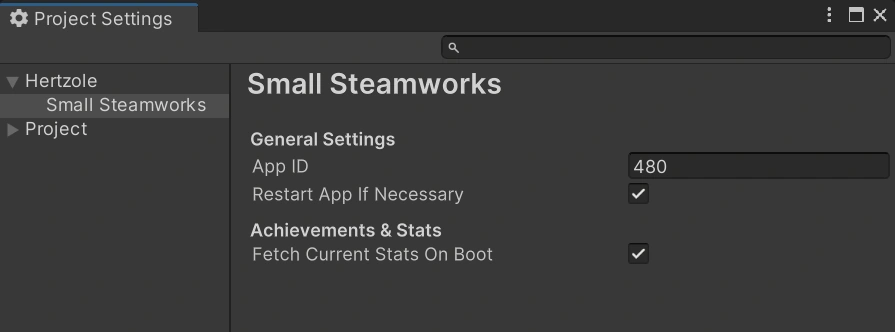
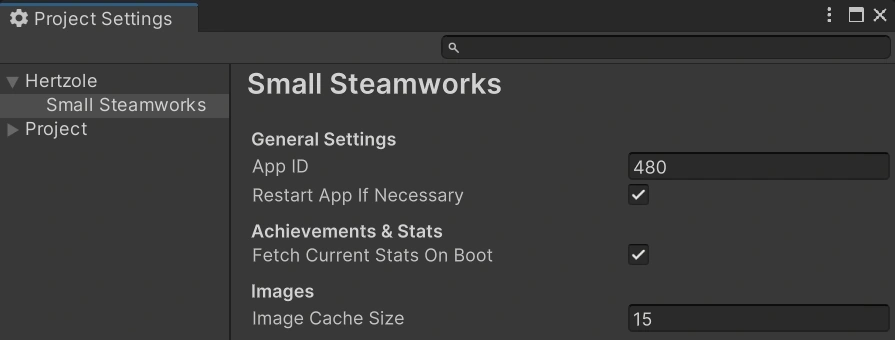
add: docs for image cache size

diff --git a/Docs/docs/settings.md b/Docs/docs/settings.md
@@ -19,3 +19,9 @@ If this is enabled, the game will restart if it wasn't started through Steam. Th
 
 ### Fetch Current Stats On Boot
 If true, the game will fetch the current user's stats from Steam on boot. This is useful if you want to display the current stats or achievements on a UI element. Otherwise, you'd have to request the stats yourself. See [Request Current Stats](stats#request-current-stats) for more information.
+
+## Images
+
+### Image Cache Size
+
+How many unused images to cache. The more images you cache, the more memory your application will use. This does not impact how many images you can show at once. This only controls how many images of each resolution that are cached and ready to be reused.

diff --git a/Docs/docs/changelog.md b/Docs/docs/changelog.md
@@ -3,11 +3,19 @@ sidebar_position: 7
 title: 🆕 Changelog
 ---
 
-## 0.2.0 - [Unreleased]
+## 0.2.0 - [2023-07-01]
 
 ### Added
 
 - Added support for SteamApps (`SteamManager.Apps`)
+- Added `Achievements.OnAchievementProgress` for when achievement progress is made
+
+### Improvements
+
+- Added pooling to image cache to reduce new image allocations
+    - You can also control the size of the cache with `SteamManager.Settings.ImageCacheSize`
+- Steam Settings no longer stay in memory in builds when `DISABLESTEAMWORKS` is applied
+- Avatar and achievement images now have names in the editor and debug builds for easier identification
 
 ## 0.1.2 - [2023-06-05]
 

diff --git a/CHANGELOG.md b/CHANGELOG.md
@@ -1,8 +1,16 @@
-## 0.2.0 - [Unreleased]
+## 0.2.0 - [2023-07-01]
 
 ### Added
 
 - Added support for SteamApps (`SteamManager.Apps`)
+- Added `Achievements.OnAchievementProgress` for when achievement progress is made
+
+### Improvements
+
+- Added pooling to image cache to reduce new image allocations
+    - You can also control the size of the cache with `SteamManager.Settings.ImageCacheSize`
+- Steam Settings no longer stay in memory in builds when `DISABLESTEAMWORKS` is applied
+- Avatar and achievement images now have names in the editor and debug builds for easier identification
 
 ## 0.1.2 - [2023-06-05]
 
